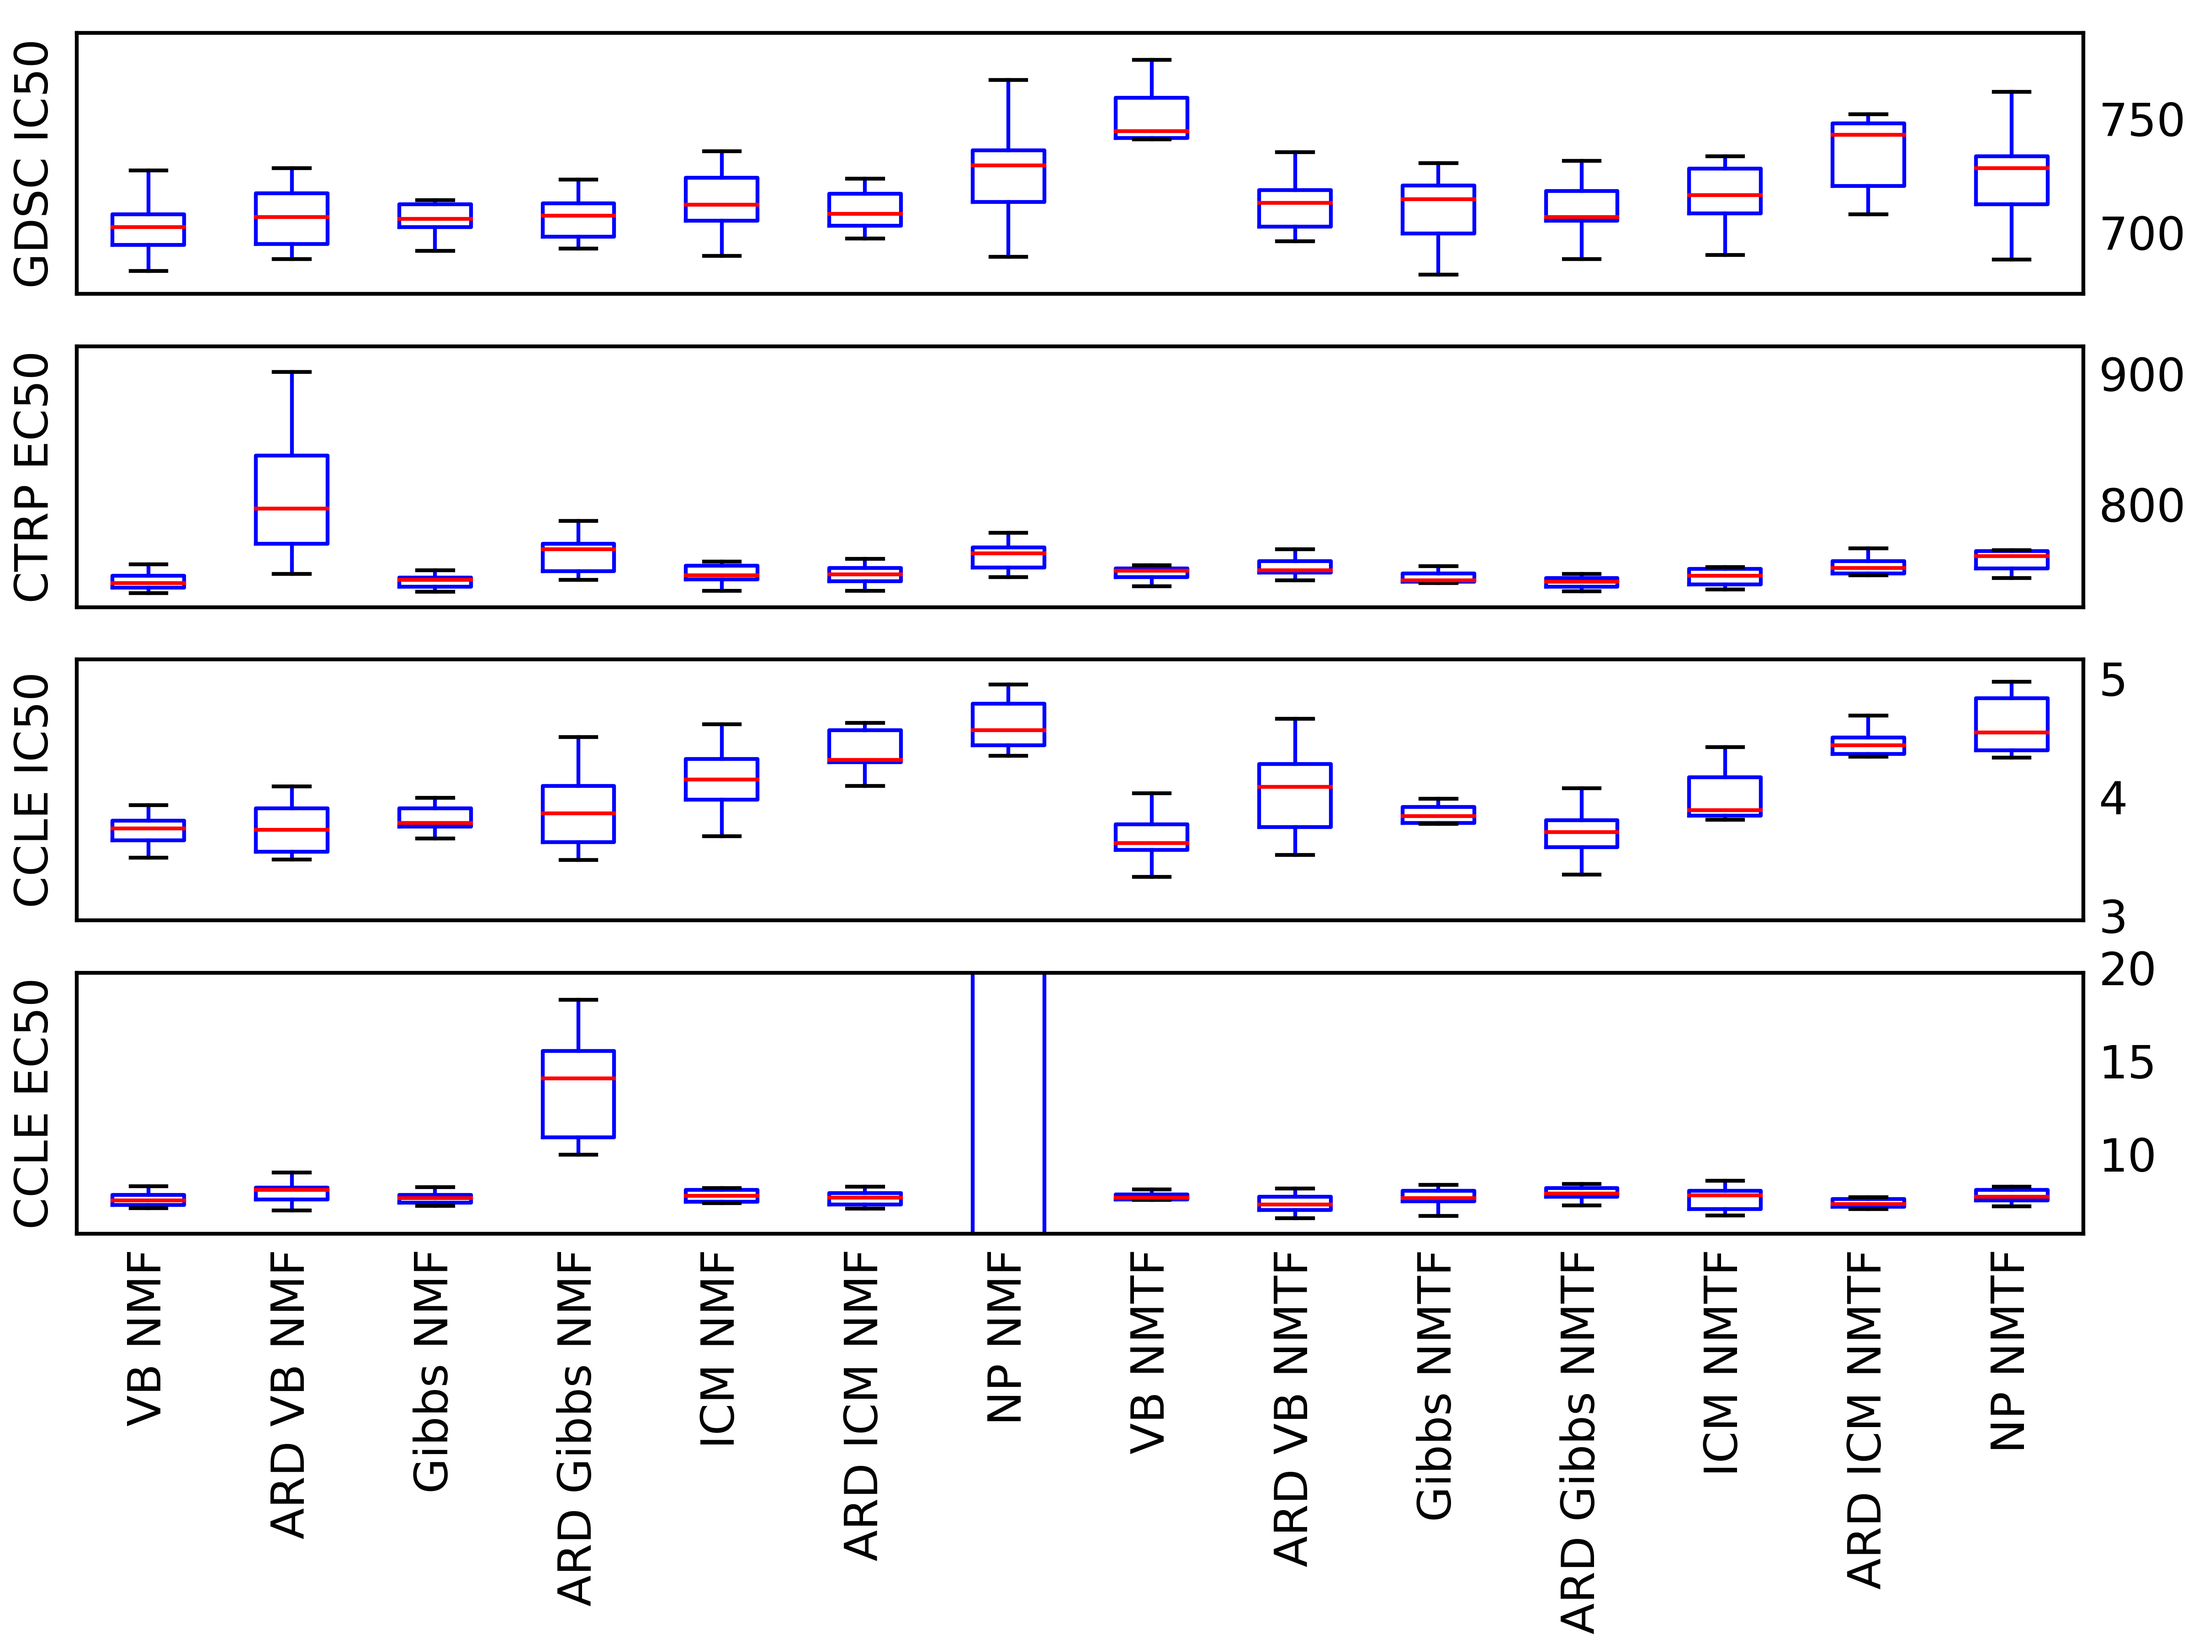
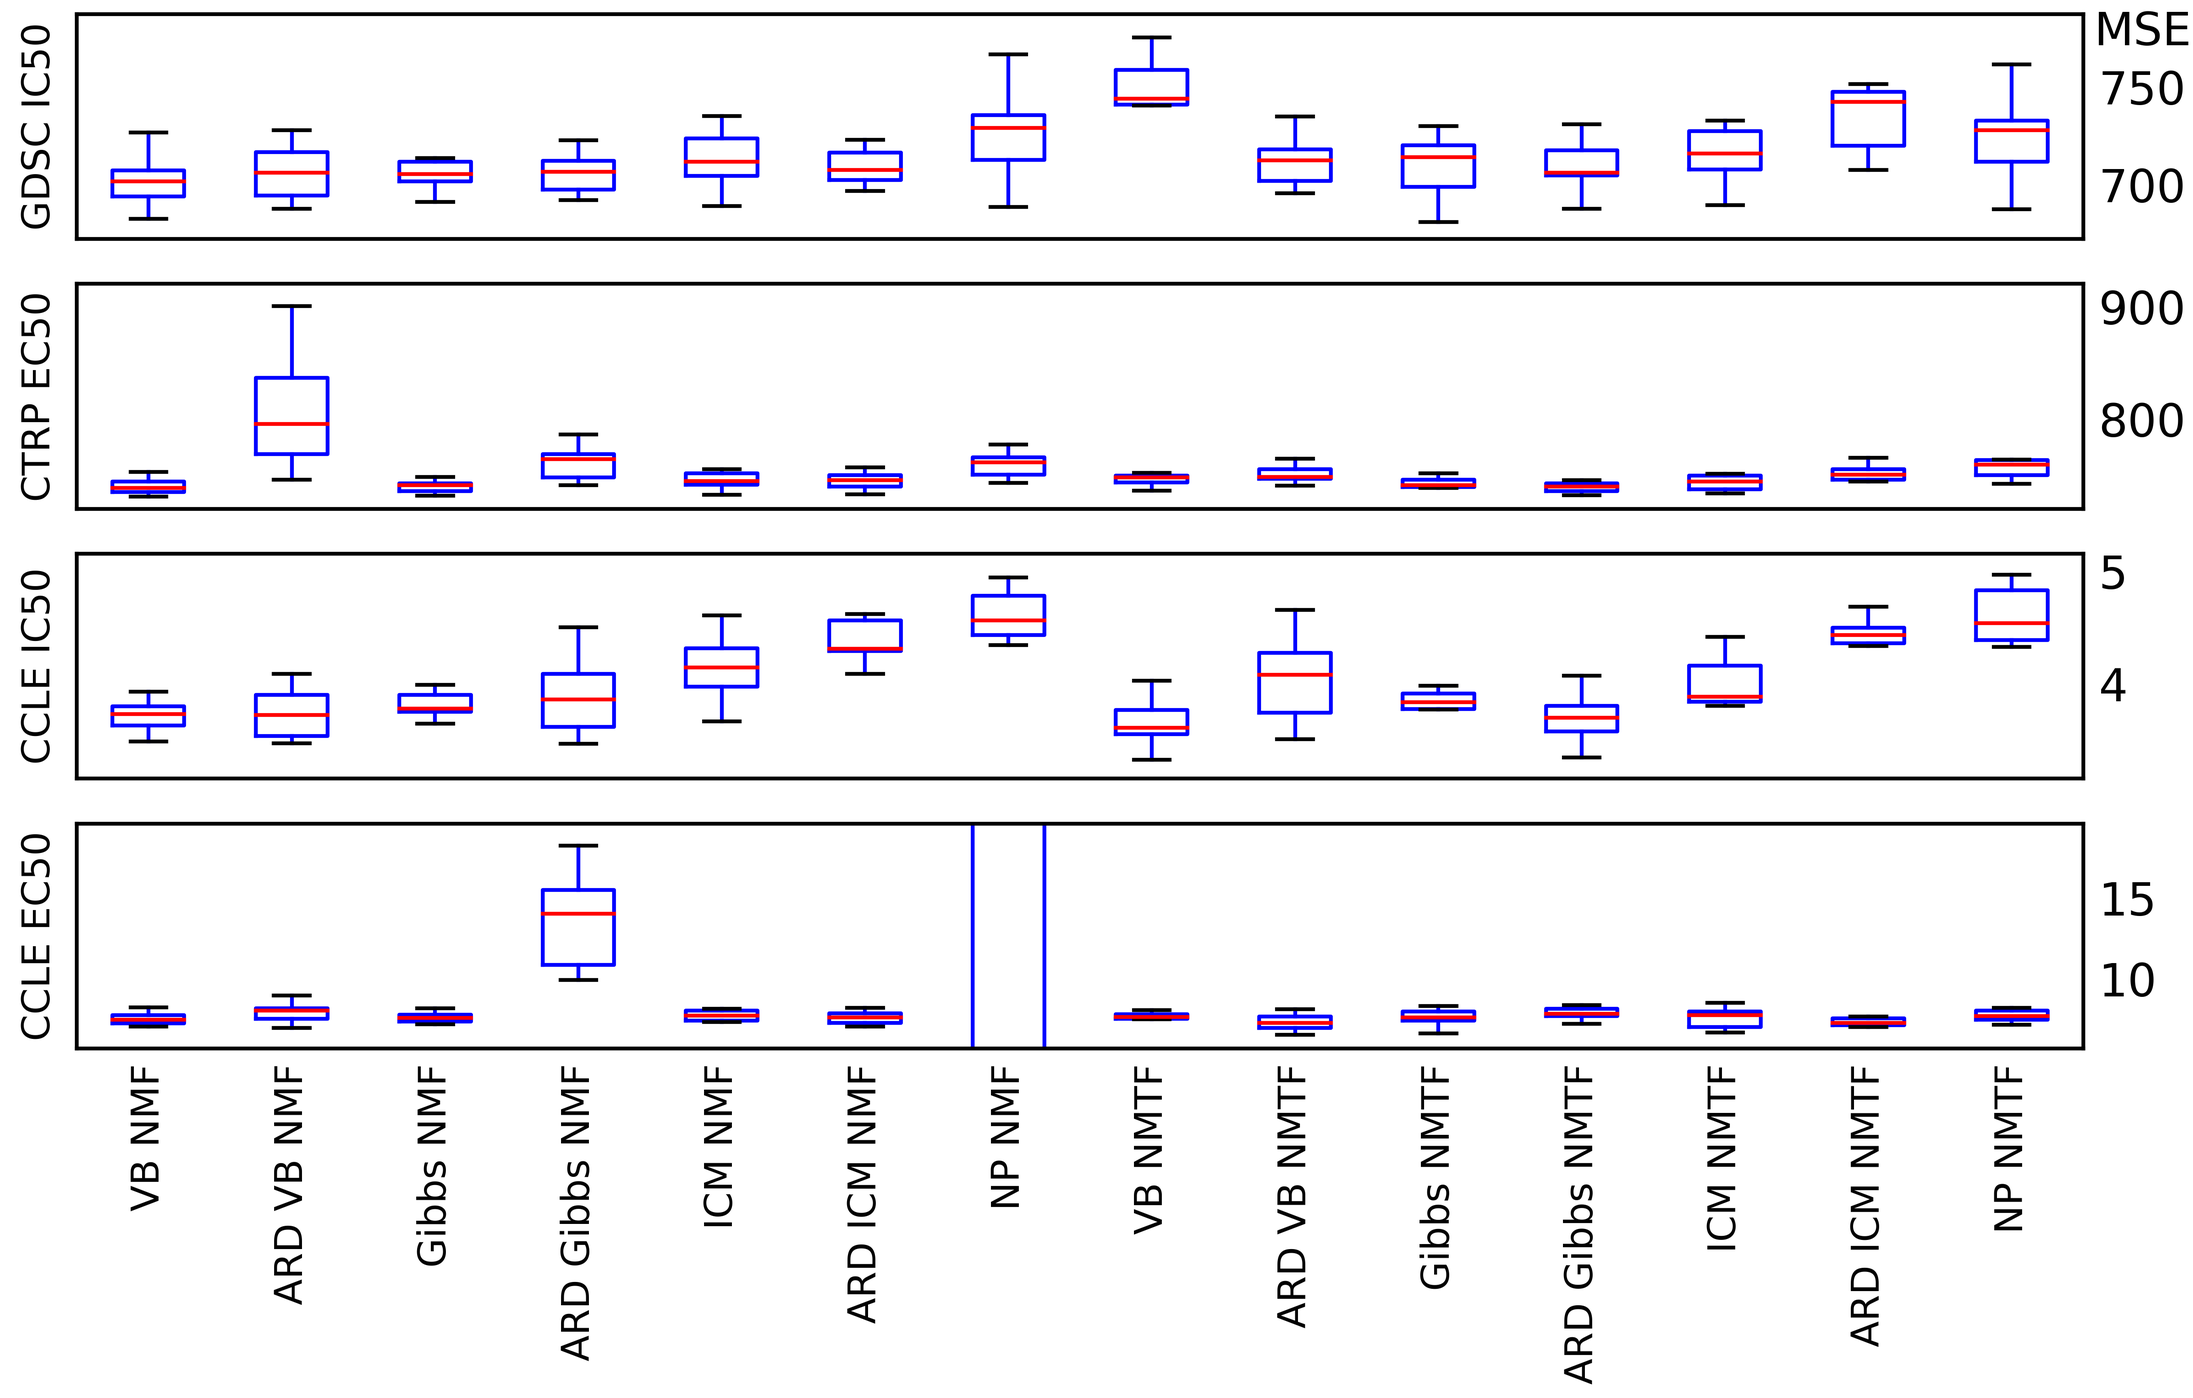
Reran NMTF ICM model selection on GDSC without minimum_TN to see if there is a difference. Also added a few variations to the boxplot for the final paper.

diff --git a/experiments/experiments_gdsc/cross_validation/plots/boxplot_crossvalidation.py b/experiments/experiments_gdsc/cross_validation/plots/boxplot_crossvalidation.py
@@ -144,16 +144,17 @@ colours = ['r','m','b','y','g','k','c']
 
 
 ''' Plot settings. '''
-figsize = (8.0, 6.0)
+figsize = (8.0, 5.1)
 nrows, ncols = 4, 1
-left, right, bottom, top = 0.035, 0.95, 0.25, 0.98
-plot_file = "./boxplot_crossvalidation.png"
+left, right, bottom, top = 0.035, 0.95, 0.25, 0.99
+plot_file = "./boxplot_crossvalidation_rescaled.png"
 showoutliers = False
+fontsize = 10
 
 gdsc_MSE_min,    gdsc_MSE_max,    gdsc_step =    675, 790, 50
-ctrp_MSE_min,    ctrp_MSE_max,    ctrp_step =    725, 925, 100
-ccle_ic_MSE_min, ccle_ic_MSE_max, ccle_ic_step = 3, 5.2, 1
-ccle_ec_MSE_min, ccle_ec_MSE_max, ccle_ec_step = 6, 20, 5
+ctrp_MSE_min,    ctrp_MSE_max,    ctrp_step =    726, 810, 25 # 725, 925, 100 # 
+ccle_ic_MSE_min, ccle_ic_MSE_max, ccle_ic_step = 3.2, 5.2, 1
+ccle_ec_MSE_min, ccle_ec_MSE_max, ccle_ec_step = 6.1, 15, 2 # 6, 19.9, 5 # 
 
 
 ''' Make the plot. '''
@@ -174,11 +175,14 @@ for i, (dataset, MSE_min, MSE_max, MSE_step) in enumerate(zip(
     [gdsc_MSE_max, ctrp_MSE_max, ccle_ic_MSE_max, ccle_ec_MSE_max],
     [gdsc_step, ctrp_step, ccle_ic_step, ccle_ec_step])):
     
-    axes[i].set_ylabel(dataset)
+    axes[i].set_ylabel(dataset, fontsize=fontsize)
     axes[i].set_yticks(range(0, int(MSE_max)+1, MSE_step))
     axes[i].set_ylim(MSE_min, MSE_max)
     axes[i].yaxis.tick_right()
     axes[i].yaxis.set_ticks_position('none')
+    #axes[i].set_yscale('log')
+
+plt.text(14.57, 45.9, 'MSE', fontsize=12) # plt.text(14.575, 68, 'MSE', fontsize=12)
 
 # Turn off x-axis labels for top 3 plots, and xticks for bottom one
 for x in range(2+1):
@@ -186,7 +190,7 @@ for x in range(2+1):
 axes[3].xaxis.set_ticks_position('none')
 
 # Transform xlabels into method names
-plt.xticks(range(1,len(method_names)+1), rotation=90)
+plt.xticks(range(1,len(method_names)+1), rotation=90, fontsize=fontsize)
 
 # Make the lines from dashed into straight line
 for bp in [bp1, bp2, bp3, bp4]:

diff --git a/experiments/experiments_gdsc/model_selection/plots/plot_nmtf_icm_model_selection.py b/experiments/experiments_gdsc/model_selection/plots/plot_nmtf_icm_model_selection.py
@@ -9,7 +9,7 @@ import numpy
 ''' Plot settings. '''
 metrics = ['MSE']#['MSE','R^2','Rp']
 MSE_min, MSE_max = 650, 850
-values_K = [1,2,3,4,5,6,7,8,9,10,12,14,16,18,20,25,30,40]
+values_K = [1,2,3,4,6,8,10,15,20,30]#[1,2,3,4,5,6,7,8,9,10,12,14,16,18,20,25,30,40]
 
 folder_plots = "./"
 folder_results = "./../results/"
@@ -19,10 +19,17 @@ colour = 'g' #['r','b','g','c'] -> VB, Gibbs, ICM, NP
 
 
 ''' Load in the performances. '''
+def eval_handle_nan(fin):
+    string = open(fin,'r').readline()
+    old, new = "nan", "numpy.nan"
+    string = string.replace(old, new)
+    return eval(string)
+    
 gibbs_performances = eval(open(folder_results+'nmtf_icm_NOMIN.txt','r').read())
-gibbs_ard_performances = eval(open(folder_results+'nmtf_icm_ard_NOMIN.txt','r').read())
+gibbs_ard_performances = eval_handle_nan(folder_results+'nmtf_icm_ard_NOMIN.txt')
 
 
+''' Plot the performances. '''
 for metric in metrics:
     fig = plt.figure(figsize=(1.9,1.5))
     fig.subplots_adjust(left=0.17, right=0.96, bottom=0.18, top=0.97)
@@ -32,6 +39,9 @@ for metric in metrics:
     x, y1, y2 = values_K, numpy.mean(gibbs_ard_performances[metric],axis=1), numpy.mean(gibbs_performances[metric],axis=1)
     plt.plot(x,y1,linestyle='-', marker='o', c=colour, markersize=3)
     plt.plot(x,y2,linestyle='--', marker='x', c=colour, markersize=3)
+    
+    print y1
+    print y2    
     
     plt.xticks(fontsize=6)
     if metric == 'MSE':

diff --git a/code/models/nmtf_icm.py b/code/models/nmtf_icm.py
@@ -62,7 +62,7 @@ ALL_METRICS = ['MSE','R^2','Rp']
 ALL_QUALITY = ['loglikelihood','BIC','AIC','MSE','ELBO']
 OPTIONS_INIT_FG = ['kmeans', 'random', 'exp']
 OPTIONS_INIT_S = ['random', 'exp']
-MINIMUM_TN = 0.0 # 0.1 # ICM has the tendency to set most columns to 0's; we reset them to this value.
+MINIMUM_TN = 0.1 # ICM has the tendency to set most columns to 0's; we reset them to this value.
 ELEMENT_WISE_SPARSITY = True # If True, use element wise sparsity (ARD) for Skl
 
 class nmtf_icm:
